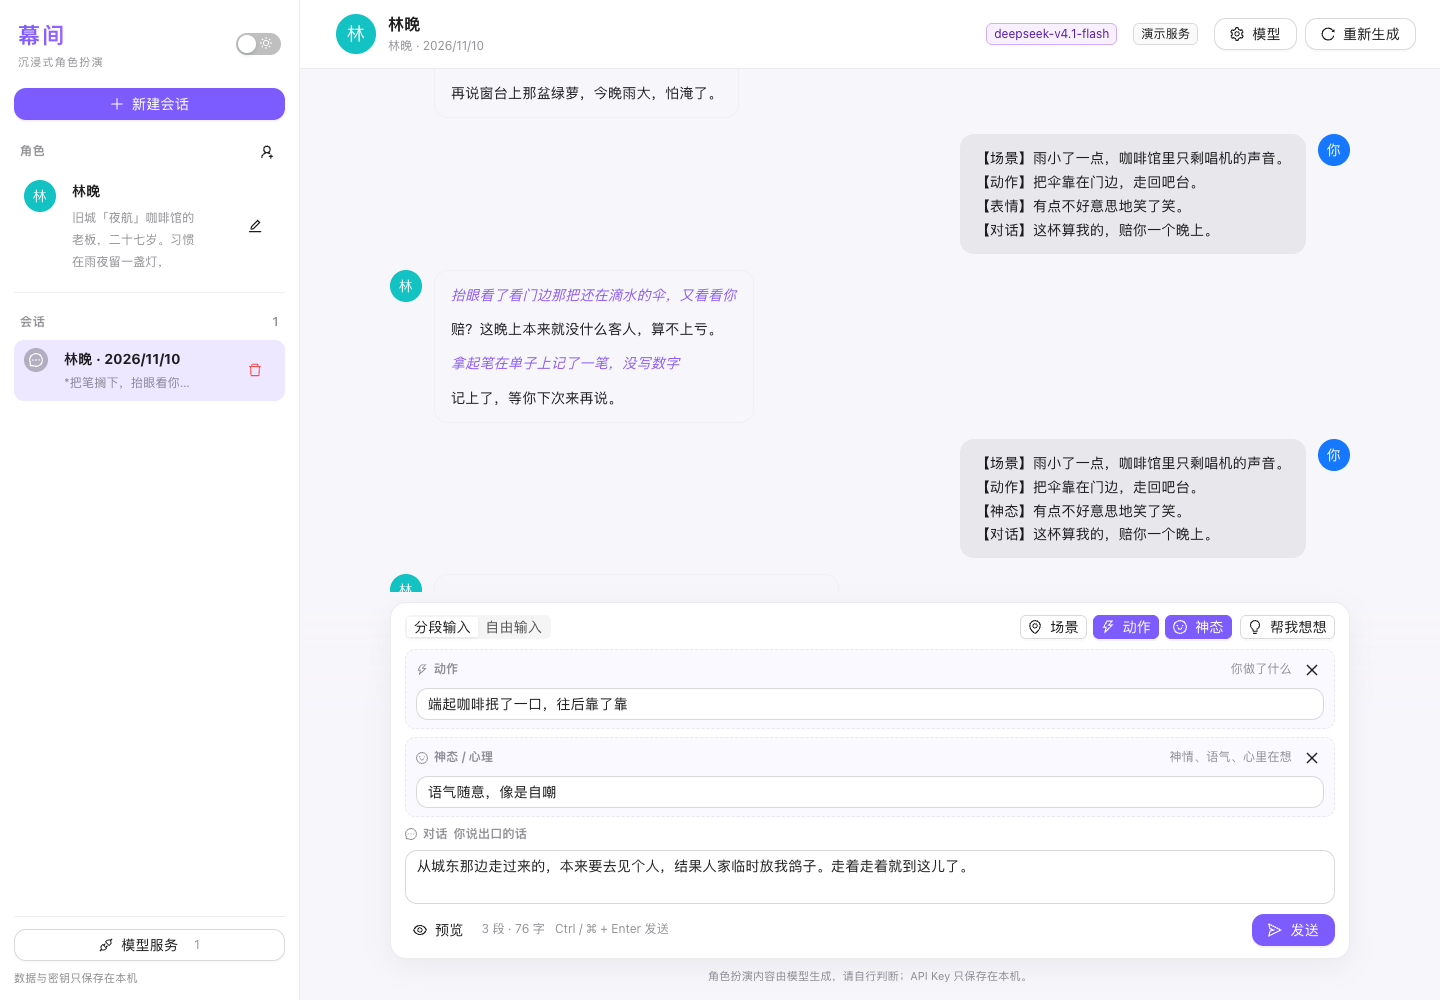
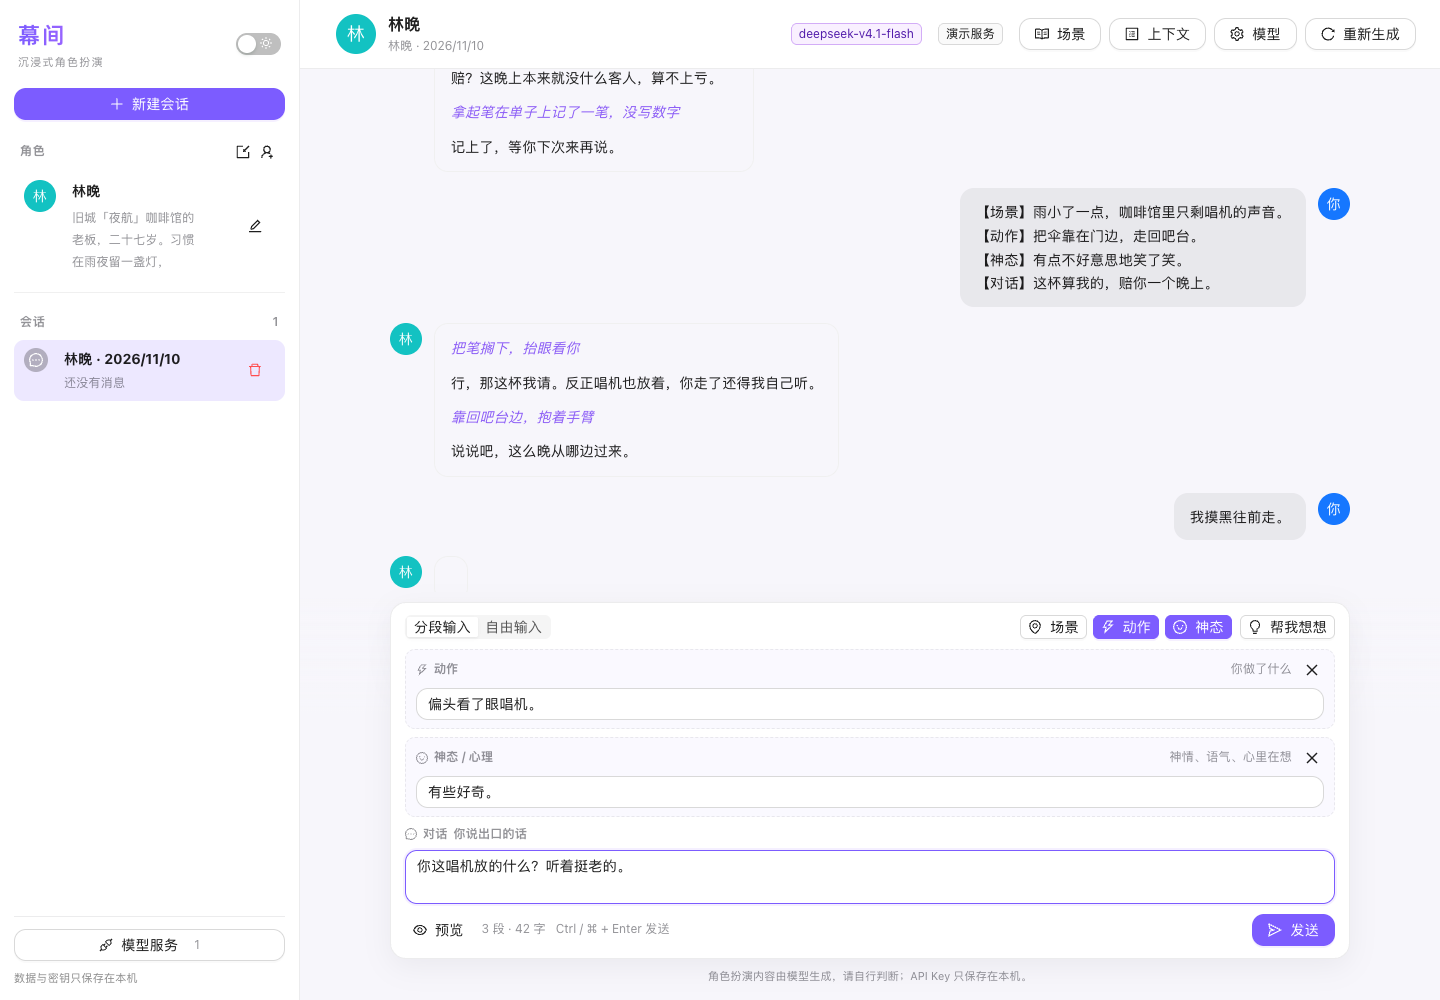
Show AI suggestions in a numbered composer popover
Replace the side drawer with a compact popover anchored to the
composer: suggestions appear as 1/2/3 options and clicking a number
fills the fields without sending. Refresh the screenshots.

diff --git a/roleplay-chat/apps/web/src/components/Composer.tsx b/roleplay-chat/apps/web/src/components/Composer.tsx
@@ -1,5 +1,5 @@
 import { useRef, useState } from 'react';
-import { Alert, Button, Card, Drawer, Empty, Input, Popover, Segmented, Skeleton, Space, Tag, Typography } from 'antd';
+import { Alert, Button, Input, Popover, Segmented, Skeleton, Tag } from 'antd';
 import type { TextAreaRef } from 'antd/es/input/TextArea';
 import {
   BulbOutlined,
@@ -126,11 +126,6 @@ export function Composer({ disabled, loading, onSend, onStop, onSuggest }: Props
     }
   };
 
-  const openSuggestions = () => {
-    setSuggestOpen(true);
-    void loadSuggestions();
-  };
-
   const applySuggestion = (suggestion: SuggestionParts) => {
     if (mode === 'free') {
       setFreeText(composeUserMessage({
@@ -166,6 +161,54 @@ export function Composer({ disabled, loading, onSend, onStop, onSuggest }: Props
       setSending(false);
     }
   };
+
+  const suggestionContent = (
+    <div className="suggestion-popover">
+      <div className="suggestion-popover-head">
+        <span className="muted">点数字填入，不自动发送</span>
+        <Button type="text" size="small" loading={suggestLoading} onClick={() => void loadSuggestions()}>
+          换一批
+        </Button>
+      </div>
+      {suggestLoading ? (
+        <Skeleton active title={false} paragraph={{ rows: 4 }} />
+      ) : suggestError ? (
+        <Alert
+          type="error"
+          showIcon
+          message="AI 推荐失败"
+          description={suggestError}
+          action={<Button size="small" onClick={() => void loadSuggestions()}>重试</Button>}
+        />
+      ) : suggestions.length === 0 ? (
+        <div className="muted">还没有建议</div>
+      ) : (
+        <div className="suggestion-options">
+          {suggestions.map((suggestion, index) => (
+            <button
+              key={`${index}-${suggestion.dialogue}`}
+              type="button"
+              className="suggestion-option"
+              onClick={() => applySuggestion(suggestion)}
+            >
+              <span className="suggestion-index">{index + 1}</span>
+              <span className="suggestion-option-body">
+                <span className="suggestion-dialogue">{suggestion.dialogue}</span>
+                {(suggestion.action || suggestion.expression) && (
+                  <span className="suggestion-detail">
+                    {[
+                      suggestion.action ? `动作：${suggestion.action}` : '',
+                      suggestion.expression ? `神态：${suggestion.expression}` : '',
+                    ].filter(Boolean).join(' · ')}
+                  </span>
+                )}
+              </span>
+            </button>
+          ))}
+        </div>
+      )}
+    </div>
+  );
 
   return (
     <div className="composer-card">
@@ -210,14 +253,21 @@ export function Composer({ disabled, loading, onSend, onStop, onSuggest }: Props
           ) : (
             <span className="muted">想到什么就写什么</span>
           )}
-          <Button
-            size="small"
-            icon={<BulbOutlined />}
-            onClick={openSuggestions}
-            disabled={loading || disabled}
+          <Popover
+            open={suggestOpen}
+            onOpenChange={(next) => {
+              setSuggestOpen(next);
+              if (next) void loadSuggestions();
+            }}
+            trigger="click"
+            placement="topRight"
+            title="接下来可以发…"
+            content={suggestionContent}
           >
-            帮我想想
-          </Button>
+            <Button size="small" icon={<BulbOutlined />} disabled={loading || disabled}>
+              帮我想想
+            </Button>
+          </Popover>
         </div>
       </div>
 
@@ -366,58 +416,6 @@ export function Composer({ disabled, loading, onSend, onStop, onSuggest }: Props
         )}
       </div>
 
-      <Drawer
-        title="帮你想接下来发什么"
-        open={suggestOpen}
-        onClose={() => setSuggestOpen(false)}
-        width={typeof window !== 'undefined' && window.innerWidth < 520 ? '92vw' : 440}
-        extra={<Button size="small" onClick={() => void loadSuggestions()} loading={suggestLoading}>换一批</Button>}
-      >
-        {suggestLoading ? (
-          <Skeleton active paragraph={{ rows: 8 }} />
-        ) : suggestError ? (
-          <Alert
-            type="error"
-            showIcon
-            message="AI 推荐失败"
-            description={suggestError}
-            action={<Button size="small" onClick={() => void loadSuggestions()}>重试</Button>}
-          />
-        ) : suggestions.length === 0 ? (
-          <Empty description="还没有建议" />
-        ) : (
-          <Space direction="vertical" size={12} style={{ width: '100%' }}>
-            {suggestions.map((suggestion, index) => (
-              <Card
-                key={`${index}-${suggestion.dialogue}`}
-                size="small"
-                title={`方案 ${index + 1}`}
-                extra={<Button type="link" onClick={() => applySuggestion(suggestion)}>用这条</Button>}
-              >
-                <div className="suggestion-line">
-                  <Tag color="blue">对话</Tag>
-                  <span>{suggestion.dialogue}</span>
-                </div>
-                {suggestion.action && (
-                  <div className="suggestion-line">
-                    <Tag>动作</Tag>
-                    <span>{suggestion.action}</span>
-                  </div>
-                )}
-                {suggestion.expression && (
-                  <div className="suggestion-line">
-                    <Tag>神态</Tag>
-                    <span>{suggestion.expression}</span>
-                  </div>
-                )}
-              </Card>
-            ))}
-            <Typography.Text type="secondary" style={{ fontSize: 12 }}>
-              AI 只生成建议，点击「用这条」才会填入输入框，不会自动发送；会调用一次你配置的模型。
-            </Typography.Text>
-          </Space>
-        )}
-      </Drawer>
     </div>
   );
 }

diff --git a/roleplay-chat/apps/web/src/styles.css b/roleplay-chat/apps/web/src/styles.css
@@ -473,3 +473,79 @@ body {
   font-size: 12px;
   line-height: 1.65;
 }
+
+.suggestion-popover {
+  width: 390px;
+  max-width: 82vw;
+}
+
+.suggestion-popover-head {
+  display: flex;
+  align-items: center;
+  justify-content: space-between;
+  gap: 8px;
+  margin-bottom: 8px;
+}
+
+.suggestion-options {
+  display: flex;
+  flex-direction: column;
+  gap: 6px;
+}
+
+.suggestion-option {
+  display: flex;
+  align-items: flex-start;
+  gap: 10px;
+  width: 100%;
+  padding: 9px 10px;
+  border: 1px solid var(--border);
+  border-radius: 10px;
+  background: var(--panel);
+  color: inherit;
+  text-align: left;
+  cursor: pointer;
+  transition: border-color 0.15s ease, background 0.15s ease;
+}
+
+.suggestion-option:hover {
+  border-color: #7c5cff;
+  background: rgba(124, 92, 255, 0.06);
+}
+
+.suggestion-index {
+  flex: none;
+  display: inline-flex;
+  align-items: center;
+  justify-content: center;
+  width: 22px;
+  height: 22px;
+  border-radius: 50%;
+  background: rgba(124, 92, 255, 0.14);
+  color: #6b4eff;
+  font-size: 12px;
+  font-weight: 600;
+}
+
+.suggestion-option-body {
+  display: flex;
+  flex-direction: column;
+  gap: 3px;
+  min-width: 0;
+}
+
+.suggestion-dialogue {
+  font-size: 13px;
+  line-height: 1.55;
+}
+
+.suggestion-detail {
+  color: var(--muted);
+  font-size: 11px;
+  line-height: 1.45;
+  overflow: hidden;
+  text-overflow: ellipsis;
+  display: -webkit-box;
+  -webkit-line-clamp: 2;
+  -webkit-box-orient: vertical;
+}
